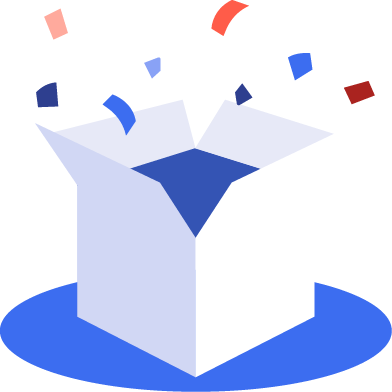
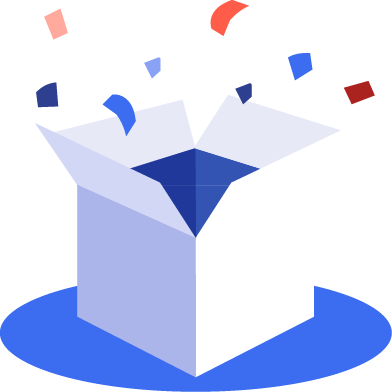
Misc (#97)
* updated content on the FAQ page

* added FAQ question

* updated glossary letter's font weight

* updated voice and tone illustrations and css

* fixed typo n form style page

* fixed typo on the overflow > style page

* fixed motion bug and updated getting started image

diff --git a/src/app/components/custom/MotionExample/motion-example.scss b/src/app/components/custom/MotionExample/motion-example.scss
@@ -32,7 +32,7 @@
     display: flex;
     align-items: center;
     justify-content: center;
-    transition: opacity 175ms cubic-bezier(.5, 0, .1, 1);
+    // transition: opacity 175ms cubic-bezier(.5, 0, .1, 1);
 
     &--hover,
     &:focus {
@@ -298,9 +298,11 @@ $w4: $s2 + $w;
 .ease-out {
   animation: stroke-fill-out $demo-duration linear;
   animation-delay: -$demo-duration + .01;
+  animation-timing-function: cubic-bezier(0, 0, 0.25, 1);
 }
 
 .ease-in {
   animation: stroke-fill-in $demo-duration linear;
   animation-delay: -$demo-duration + .01;
+  animation-timing-function: cubic-bezier(0.25, 0, 1, 1);
 }
